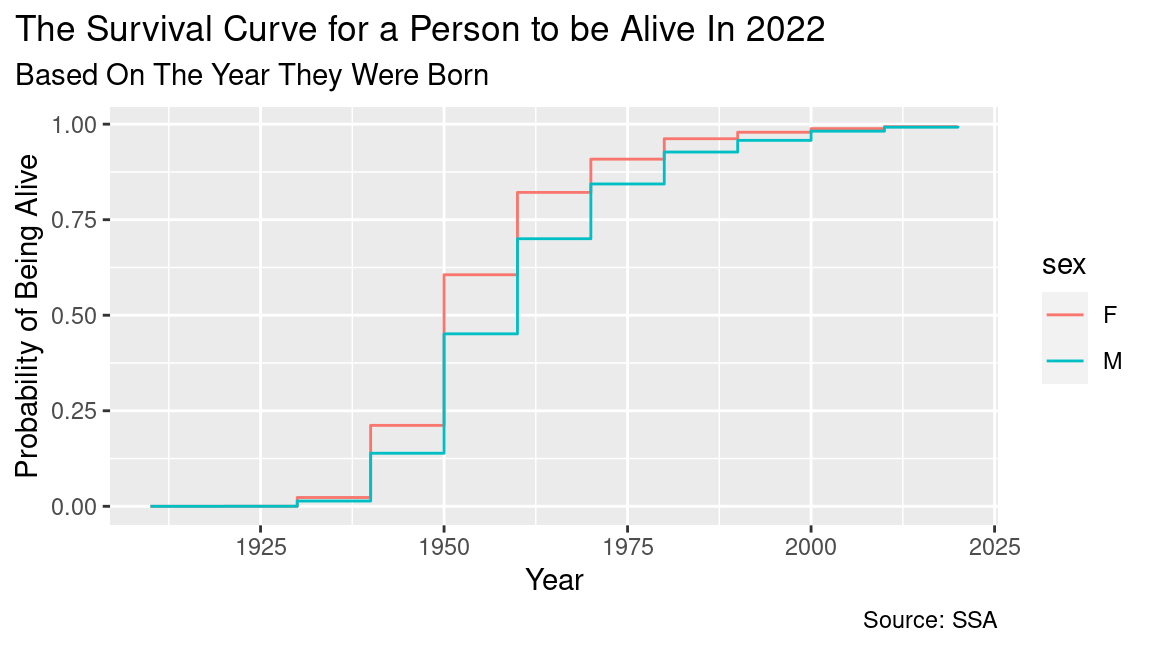
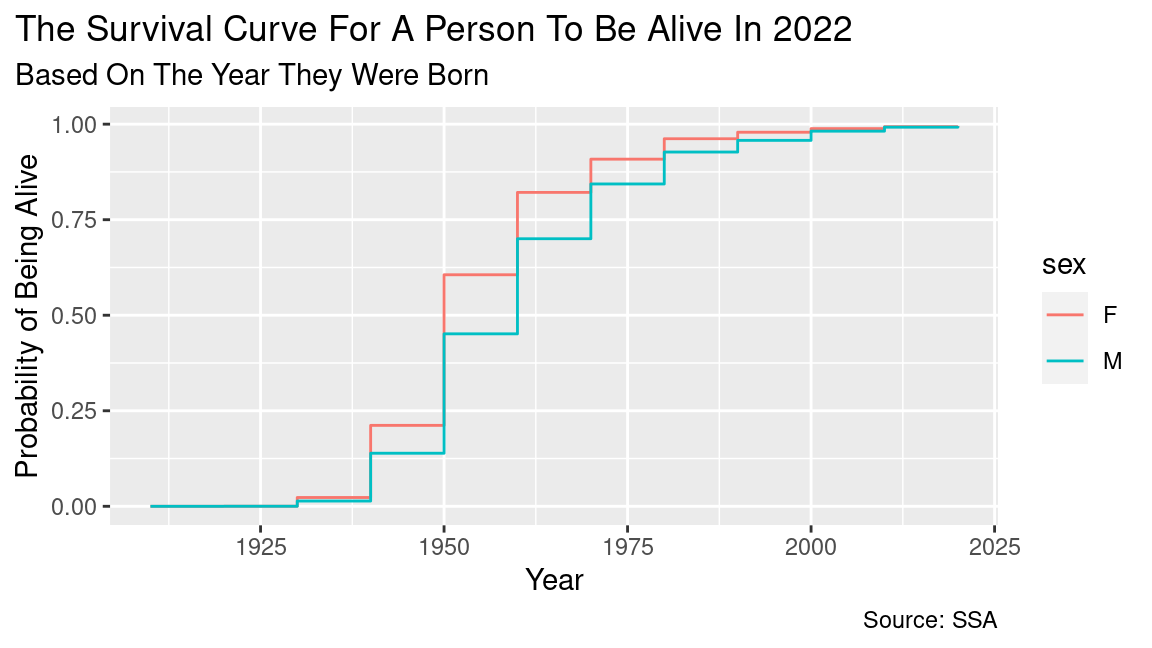
make some changes for visualization.

Changed region(s): [[0.2812, 0.0, 0.75, 0.0617]]

diff --git a/projects/project-02/project-02-estimate-age-from-name.md b/projects/project-02/project-02-estimate-age-from-name.md
@@ -174,7 +174,7 @@ tbl_lifetables |>
   geom_step() +
   # Add labels (title, subtitle, x, y, caption)
   labs(
-    title = "The Survival Curve for a Person to be Alive In 2022",
+    title = "The Survival Curve For A Person To Be Alive In 2022",
     subtitle = "Based On The Year They Were Born",
     x = "Year",
     y = "Probability of Being Alive",
@@ -264,10 +264,10 @@ tbl_lifetables_extended_2022 <- tbl_lifetables_extended |>
   ) +
   # Add labels (title, subtitle, x, y, caption)
   labs(
-    title = "The Probability That a Person has Survived Till 2022",
+    title = "The Probability That A Person Has Survived Till 2022",
     subtitle = "",
     x = "Year",
-    y = "Probability of being alive",
+    y = "Probability Of Being Alive",
     caption = "Source: SSA"
   )
 ```
@@ -523,7 +523,7 @@ tbl_names_extended_age |>
   geom_point(size = 2, color = "darkblue") +
   # Add labels (title, subtitle, x, y)
   labs(
-    title = "Age Distribution for People with Different Names.",
+    title = "Age Distribution for People With Different Names.",
     subtitle = "The Average Age for Female Names",
     x = "Age",
     y = "Names"
